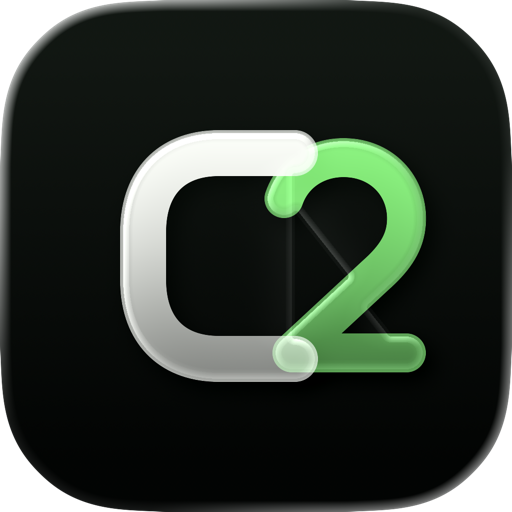
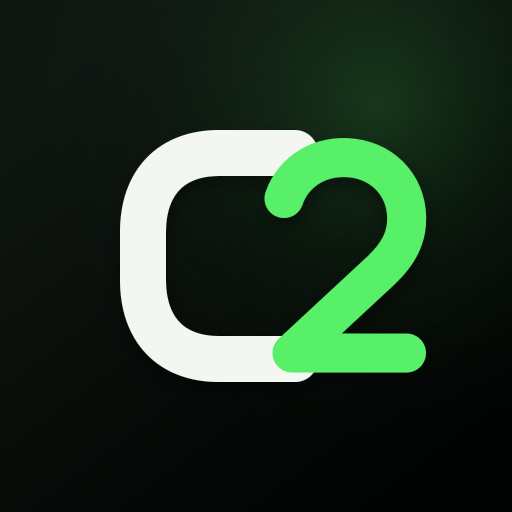
fix(desktop): resolve nightly build failures (#152)
* fix(desktop): resolve nightly build failures

Add missing ThumbsUp/ThumbsDown icon exports, use .iconset format
to remove Xcode actool dependency, and skip cargo rebuild when host
binary already exists.

* fix(desktop): regenerate iconset from fullbleed SVG to remove white border

Replace pre-baked rounded-rect PNGs with full-bleed square renders from
icon-fullbleed.svg so macOS applies its own mask without a visible edge.

---------

diff --git a/apps/desktop/src/components/ui/icons.tsx b/apps/desktop/src/components/ui/icons.tsx
@@ -151,6 +151,8 @@ import StoreData from "@hugeicons/core-free-icons/Store01Icon";
 import SunData from "@hugeicons/core-free-icons/Sun01Icon";
 import TargetData from "@hugeicons/core-free-icons/Target01Icon";
 import TerminalIconData from "@hugeicons/core-free-icons/TerminalIcon";
+import ThumbsDownData from "@hugeicons/core-free-icons/ThumbsDownIcon";
+import ThumbsUpData from "@hugeicons/core-free-icons/ThumbsUpIcon";
 import TicketData from "@hugeicons/core-free-icons/Ticket01Icon";
 import Trash2Data from "@hugeicons/core-free-icons/Delete02Icon";
 import TriangleAlertIconData from "@hugeicons/core-free-icons/TriangleAlertIcon";
@@ -330,6 +332,8 @@ export const Sun = createIcon(SunData, "Sun");
 export const Target = createIcon(TargetData, "Target");
 export const Terminal = createIcon(TerminalIconData, "Terminal");
 export const TerminalIcon = createIcon(TerminalIconData, "TerminalIcon");
+export const ThumbsDown = createIcon(ThumbsDownData, "ThumbsDown");
+export const ThumbsUp = createIcon(ThumbsUpData, "ThumbsUp");
 export const Ticket = createIcon(TicketData, "Ticket");
 export const Trash2 = createIcon(Trash2Data, "Trash2");
 export const TriangleAlert = createIcon(TriangleAlertIconData, "TriangleAlert");

diff --git a/apps/desktop/scripts/prepare-electrobun.ts b/apps/desktop/scripts/prepare-electrobun.ts
@@ -16,7 +16,15 @@ function run(command: string[], cwd: string): void {
 
 run(["bun", "run", "build:renderer"], desktopRoot);
 run(["bun", "run", "build:tool-broker"], desktopRoot);
-run(["cargo", "build", "--release", "-p", "codetwo-desktop-host"], repositoryRoot);
+
+import { existsSync } from "node:fs";
+const hostExecutable = process.platform === "win32" ? "codetwo-desktop-host.exe" : "codetwo-desktop-host";
+const hostBinaryPath = resolve(repositoryRoot, "target", "release", hostExecutable);
+if (existsSync(hostBinaryPath)) {
+  console.log(`Skipping cargo build: ${hostExecutable} already exists at ${hostBinaryPath}`);
+} else {
+  run(["cargo", "build", "--release", "-p", "codetwo-desktop-host"], repositoryRoot);
+}
 
 if (process.platform === "darwin") {
   const windowEffectsRoot = resolve(desktopRoot, "native", "window-effects");

diff --git a/apps/desktop/electrobun.config.ts b/apps/desktop/electrobun.config.ts
@@ -40,7 +40,7 @@ export default {
       notarize: process.env.ELECTROBUN_NOTARIZE === "1",
       bundleCEF: false,
       defaultRenderer: "native",
-      icons: "assets/codeTwo.icon",
+      icons: "assets/codeTwo.iconset",
       entitlements: {
         "com.apple.security.device.audio-input": true,
         "com.apple.security.personal-information.speech-recognition": true,
